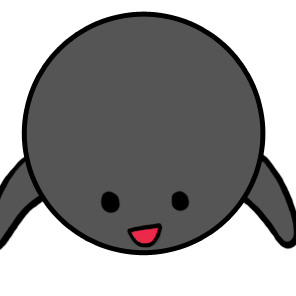
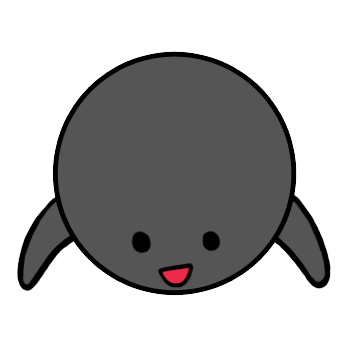
Fix clipped mascot-stone arms + neural-mode freeze, v1.8.1
- Stone faces: the 296px center-crop cut the side arms. Re-crop from
  each source's true content bbox, padded to a transparent square, so
  both arms stay intact.
- Neural bot: the analyze call had no client-side timeout, so a stalled
  worker (WASM thread deadlock / model-load hang) left S.busy true and
  froze the board. Add a watchdog that falls back to the greedy bot
  after a grace period (90s first load, budget+8s after), bumping
  botToken so a late neural reply can't double-move.

Changed region(s): [[0.0, 0.0304, 1.0, 0.8818], [0.3345, 0.6385, 0.4561, 0.7297], [0.5777, 0.6385, 0.6385, 0.7297]]

diff --git a/ui.js b/ui.js
@@ -7,7 +7,7 @@
   'use strict';
   var E = window.GoEngine, LESSONS = window.GoLessons;
   var BLACK = E.BLACK, WHITE = E.WHITE, EMPTY = E.EMPTY;
-  var VERSION = '1.8.0';
+  var VERSION = '1.8.1';
   // KataGo dan net (b18c384nbt, ~93MB) served same-origin from R2 via functions/models/.
   var NEURAL_MODEL = 'models/kata1-b18c384nbt-s9996604416-d4316597426.bin.gz';
 
@@ -410,6 +410,16 @@
   }
 
   function neuralTurn(bc, token) {
+    var budget = S.size <= 9 ? 4000 : S.size <= 13 ? 6000 : 10000;
+    // Watchdog: a worker that stalls (WASM thread deadlock, or a model load/network
+    // hang) must never freeze the board. After a generous grace period, fall back to
+    // the greedy bot. The first call's grace also covers the ~90MB model download.
+    setTimeout(function () {
+      if (token !== S.botToken || !S.busy) return; // a real reply already landed
+      S.botToken++;                                // invalidate any late neural reply so it can't double-move
+      setStatus(t('neuralFail'));
+      applyBotMove(botMove(S.game, bc));
+    }, (neural && neural.initialized) ? budget + 8000 : 90000);
     ensureNeural().then(function () {
       if (token !== S.botToken) return;          // stale (new game / mode / difficulty change)
       setStatus(t('botThinks'));
@@ -417,7 +427,7 @@
         type: 'katago:analyze', id: token, modelUrl: NEURAL_MODEL,
         board: toIntersections(S.game), currentPlayer: bc === BLACK ? 'black' : 'white',
         komi: S.game.komi, rules: 'chinese',
-        visits: 256, maxTimeMs: S.size <= 9 ? 4000 : S.size <= 13 ? 6000 : 10000, moveHistory: []
+        visits: 256, maxTimeMs: budget, moveHistory: []
       });
     }).catch(function () {
       if (token !== S.botToken) return;

diff --git a/index.html b/index.html
@@ -8,7 +8,7 @@
   <meta name="color-scheme" content="light dark">
   <meta name="description" content="เรียนและเล่นโกะ (หมากล้อม / 围棋 / Go) ในเบราว์เซอร์ พร้อมโหมดสอนเล่นทีละขั้น">
   <title>围棋 · Go · หมากล้อม — เรียนและเล่น</title>
-  <link rel="stylesheet" href="styles.css?v=1.8.0">
+  <link rel="stylesheet" href="styles.css?v=1.8.1">
 </head>
 <body>
   <div class="wrap">
@@ -149,8 +149,8 @@
   </div>
 
   <!-- ?v= cache-busts on each release; bump together with VERSION in ui.js / worker.js -->
-  <script src="engine.js?v=1.8.0"></script>
-  <script src="lessons.js?v=1.8.0"></script>
-  <script src="ui.js?v=1.8.0"></script>
+  <script src="engine.js?v=1.8.1"></script>
+  <script src="lessons.js?v=1.8.1"></script>
+  <script src="ui.js?v=1.8.1"></script>
 </body>
 </html>

diff --git a/worker.js b/worker.js
@@ -7,7 +7,7 @@
  *   (KataGo WASM) only if real dan-level strength is ever required.
  */
 /* global GoEngine, importScripts, postMessage, onmessage */
-importScripts('engine.js?v=1.8.0'); // keep in sync with VERSION (cache-bust)
+importScripts('engine.js?v=1.8.1'); // keep in sync with VERSION (cache-bust)
 var E = GoEngine, EMPTY = E.EMPTY;
 
 function isEye(g, i, color) {
